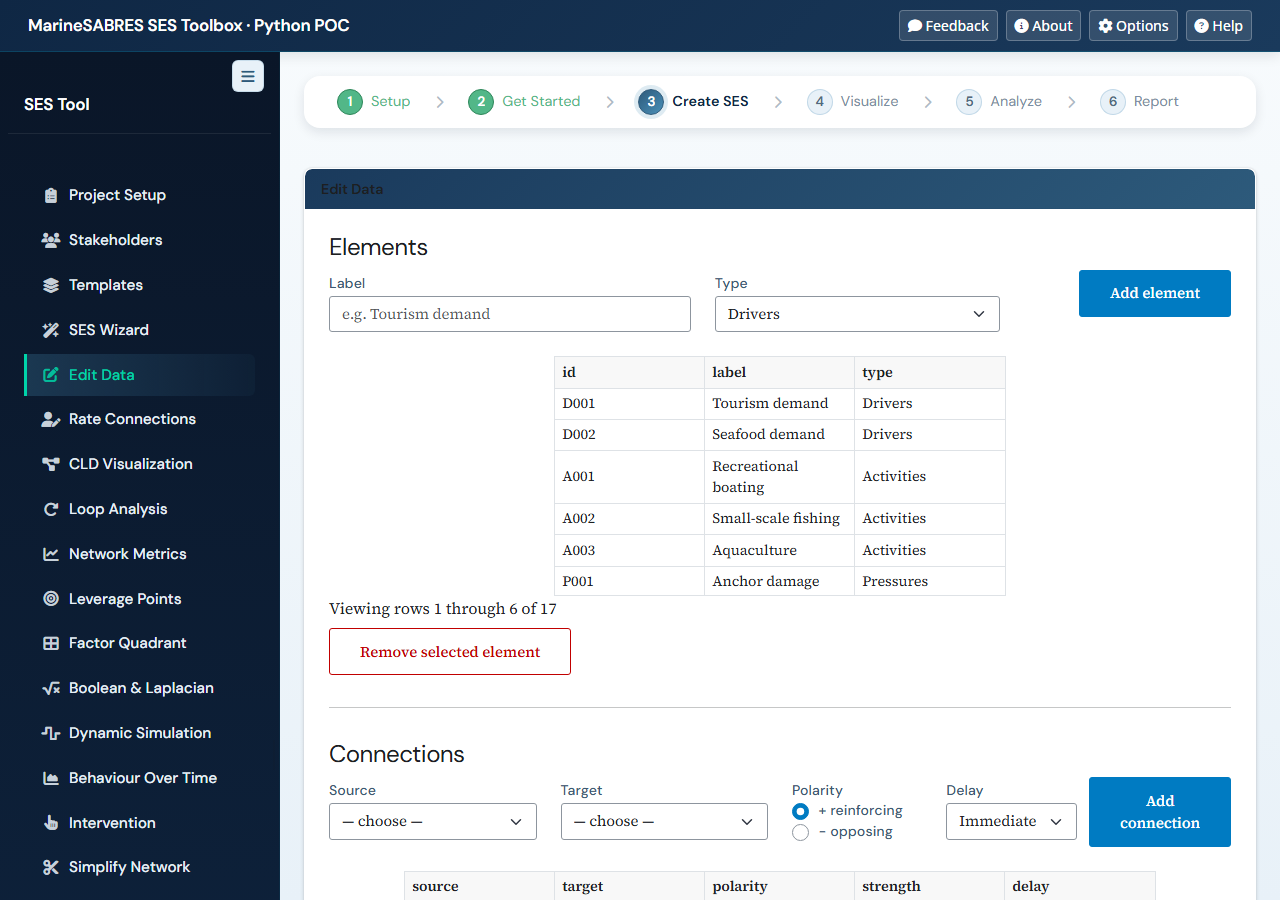
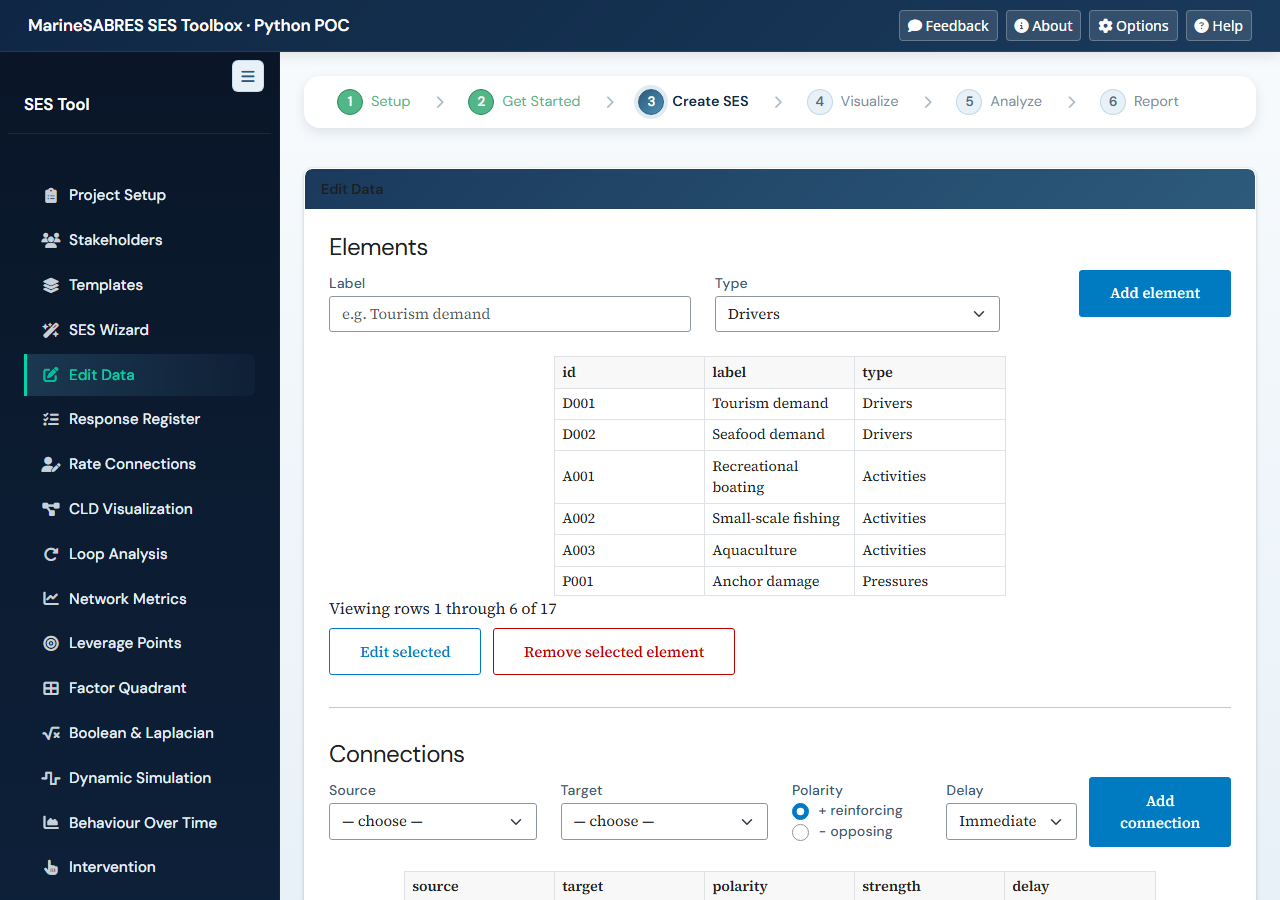
docs: P1b manual, changelog, screenshots (P1b)
MANUAL §10 Response Register in full, the §9 edit panels, §6 roles and the stakeholder counter, the §2 stepper row and the v1.33.0 template line; CHANGELOG [1.15.0]; a README module row; the screenshot script walks the 20 nav panels; four screenshots retaken (responses, entry, stakeholders, full_app).

diff --git a/tests/make_docs_screenshots.py b/tests/make_docs_screenshots.py
@@ -4,7 +4,7 @@
 Standalone Playwright script in the same style as `tests/test_*_e2e.py`: it
 drives http://127.0.0.1:<port> (start the server yourself, e.g.
 `shiny run --port 8000 app.py` with PYTHONPATH set to the repo root), walks
-the 19 nav panels in app.py NAV order, triggers the button-gated analysis
+the 20 nav panels in app.py NAV order, triggers the button-gated analysis
 blocks so their results are visible, and writes `<out>/<nav value>.png` for
 each panel plus a handful of extras (metrics_cascade, simulation_montecarlo,
 about_overview, about_manual, full_app).
@@ -40,6 +40,7 @@ NAV_ORDER = [
     ("templates",    ("text",  "#templates-templates_list")),
     ("wizard",       ("sel",   "#wizard-wizard_start")),
     ("entry",        ("sel",   "#entry-elements_table table tbody tr")),
+    ("responses",    ("sel",   "#responses-measures_table")),
     ("rate",         ("sel",   "#rate-connections_table table tbody tr")),
     ("cld",          ("pyvis", "cld-network")),
     ("loops",        ("sel",   "#loops-detect")),
@@ -388,7 +389,7 @@ class Shooter:
         await page.goto(f"http://127.0.0.1:{port}", wait_until="networkidle")
         # Cold-server warm-up: the nav is server-rendered
         await page.wait_for_function(
-            "() => document.querySelectorAll('.sespy-nav-btn').length >= 19", timeout=60000)
+            "() => document.querySelectorAll('.sespy-nav-btn').length >= 20", timeout=60000)
         await page.wait_for_timeout(1500)
         # Toasts (the autosave "Recovered work" prompt fires a moment after
         # load; others arrive from gated runs) must not land in a doc shot.

diff --git a/docs/MANUAL.md b/docs/MANUAL.md
@@ -48,7 +48,7 @@ Across the top of the page is a six-step **workflow stepper**. It is a guide, no
 |---|---|---|
 | Setup | Project Setup | Project Setup, Stakeholders |
 | Get Started | Recent Projects | Recent Projects |
-| Create SES | Templates | Templates, SES Wizard, Edit Data, Rate Connections, Import Data |
+| Create SES | Templates | Templates, SES Wizard, Edit Data, Response Register, Rate Connections, Import Data |
 | Visualize | CLD Visualization | CLD Visualization |
 | Analyze | Loop Analysis | Loop Analysis, Network Metrics, Leverage Points, Factor Quadrant, Boolean & Laplacian, Dynamic Simulation, Behaviour Over Time, Intervention, Simplify Network |
 | Report | Export Report | Export Report |
@@ -111,13 +111,13 @@ Each section below names the panel as it appears in the navigation, then covers 
 
 **Purpose.** A stakeholder register with a power × interest grid, engagement and communication planning, summary analytics and exports (section 43).
 
-**Controls.** Five tabs. **Register**: "Add / edit stakeholder" with Name, Type, Sector, Contact, Interests, Role, Power (High/Medium/Low), Interest (High/Medium/Low), Attitude and Engagement level; "Save stakeholder" and "Cancel"; "Edit selected" and "Remove selected" act on the highlighted row of the register table. **Power-Interest Grid** has no controls. **Engagement Planning**: Stakeholder, Engagement method, date, objectives, outcomes, Status, Facilitator, "Add activity". **Communication Plan**: Target audience, Communication type, date, Frequency, key message, responsible person, "Add communication". **Analysis** carries the export buttons: "Download full report (Excel)", "Download Power-Interest grid (PNG)", "Download summary (PDF)".
+**Controls.** Five tabs. **Register**: "Add / edit stakeholder" with Name, Type, Sector, Contact, Interests, Role, Power (High/Medium/Low), Interest (High/Medium/Low), Attitude, Engagement level and "Roles (D5.4 actor typology)" (any of Inputters, Extractors, Regulators, Affectees, Beneficiaries and Influencers); "Save stakeholder" and "Cancel"; "Edit selected" and "Remove selected" act on the highlighted row of the register table. **Power-Interest Grid** has no controls. **Engagement Planning**: Stakeholder, Engagement method, date, objectives, outcomes, Status, Facilitator, "Add activity". **Communication Plan**: Target audience, Communication type, date, Frequency, key message, responsible person, "Add communication". **Analysis** carries the export buttons: "Download full report (Excel)", "Download Power-Interest grid (PNG)", "Download summary (PDF)".
 
-**Outputs.** The register table. The grid plots every stakeholder with both power and interest set into four quadrants captioned Key players, Keep satisfied, Keep informed and Monitor, followed by a "Grid summary" listing each quadrant's strategy and members and naming anyone not plotted for lack of scores. The engagement and communication logs. The analysis tab shows counts, an engagement-coverage bar and stakeholders by type and sector.
+**Outputs.** The register table, whose Roles column lists each stakeholder's roles. The grid plots every stakeholder with both power and interest set into four quadrants captioned Key players, Keep satisfied, Keep informed and Monitor, followed by a "Grid summary" listing each quadrant's strategy and members and naming anyone not plotted for lack of scores. The engagement and communication logs. The analysis tab shows counts, an engagement-coverage bar and stakeholders by type and sector.
 
 **Reading it.** Key players (high power, high interest) are managed closely; keep satisfied means high power and lower interest; keep informed means lower power and high interest; monitor is the rest.
 
-**Caveats.** Name and Type are required. Stakeholders are also the rater list for Rate Connections (section 11), so register them before rating. The stakeholder register is saved with the project but is not part of the report export.
+**Caveats.** Name and Type are required. IDs (SH001, SH002, …) are never reused: the next one comes from a counter saved with the project, so a removed stakeholder's ID stays retired. Stakeholders are also the rater list for Rate Connections (section 11), so register them before rating. The stakeholder register is saved with the project but is not part of the report export.
 
 ## 7. Templates
 
@@ -127,7 +127,7 @@ Each section below names the panel as it appears in the navigation, then covers 
 
 **Controls.** 11 templates in two groups: "MarineSABRES templates" (the 7 curated templates of the R MarineSABRES SES Toolbox) and "SESPy examples" (SESPy's own 4). One card per template with its name, size and description, and a "Load" button. A MarineSABRES card also shows badges for its category, its complexity ("Simple" or "Complex"), its template version and its regional sea, and a collapsed "About this template" section with the template's source and usage notes. A SESPy example shows its demonstration area instead. Loading replaces the current project, so save first if you want to keep your work; the panel says so at the top.
 
-**Shipped templates: MarineSABRES.** R's template names with " (MarineSABRES)" appended, so they never clash with SESPy's examples: Caribbean Island - Comprehensive SES Template (78 elements, 140 connections, Caribbean Sea, complex), Climate Change (25 and 28, Arctic Ocean), Coastal Lagoon (28 and 30, Baltic Sea), Fisheries (26 and 33, Baltic Sea), Offshore Wind Energy (23 and 27, North Sea, complex), Pollution (28 and 29, Baltic Sea), Tourism (26 and 33, Mediterranean Sea). "Coastal Lagoon (MarineSABRES)" is R's aquaculture template: R names it "Coastal Lagoon", and SESPy keeps R's name. The templates are converted from R release v1.31.0: R's Measures appear as Responses, every link keeps its sign, strength and description, and its confidence (kept within SESPy's 1–5 scale); R records no delays, so every link starts as "immediate". The Caribbean template is large; analyses with a node limit (Boolean allows at most 12 nodes) say so instead of running.
+**Shipped templates: MarineSABRES.** R's template names with " (MarineSABRES)" appended, so they never clash with SESPy's examples: Caribbean Island - Comprehensive SES Template (78 elements, 140 connections, Caribbean Sea, complex), Climate Change (25 and 28, Arctic Ocean), Coastal Lagoon (28 and 30, Baltic Sea), Fisheries (26 and 33, Baltic Sea), Offshore Wind Energy (23 and 27, North Sea, complex), Pollution (28 and 29, Baltic Sea), Tourism (26 and 33, Mediterranean Sea). "Coastal Lagoon (MarineSABRES)" is R's aquaculture template: R names it "Coastal Lagoon", and SESPy keeps R's name. The templates are converted from R release v1.33.0: R's Measures appear as Responses, every link keeps its sign, strength and description, and its confidence (kept within SESPy's 1–5 scale); R records no delays, so every link starts as "immediate". The Caribbean template is large; analyses with a node limit (Boolean allows at most 12 nodes) say so instead of running.
 
 **Shipped templates: SESPy examples.** Coastal Tourism SES (17 elements, 20 connections, Tuscan Archipelago), Minimal Demo (5 and 6, a positive three-cycle plus a mutually activating pair, useful for learning the analyses), Offshore Wind Farm SES (19 and 21, Macaronesia), Small-scale Coastal Fisheries SES (18 and 22, Arctic Northeast Atlantic).
 
@@ -151,7 +151,7 @@ Each section below names the panel as it appears in the navigation, then covers 
 
 **Purpose.** Edit the element and connection lists by hand. Every change is visible at once in every other panel.
 
-**Controls.** Under "Elements": "Label", "Type" (the seven DAPSI(W)R(M) types), "Add element", "Remove selected element". Under "Connections": "Source" and "Target" (both start on "— choose —"), "Polarity" (+ reinforcing or − opposing), "Delay" (Immediate, Short, Long), "Add connection", "Remove selected connection". Rows are selected by clicking them in the tables.
+**Controls.** Under "Elements": "Label", "Type" (the seven DAPSI(W)R(M) types), "Add element", "Remove selected element". Under "Connections": "Source" and "Target" (both start on "— choose —"), "Polarity" (+ reinforcing or − opposing), "Delay" (Immediate, Short, Long), "Add connection", "Remove selected connection". Rows are selected by clicking them in the tables. Under each table, "Edit selected" opens an edit panel for the selected row. An element's panel has Label and Description and, except for a Responses element, its indicator fields: Indicator, Unit, Data source and Policy target (one of five policy targets, or your own text), plus the read-only registry id and version of an element taken from the indicator registry. A connection's panel has its Description. "Save changes" writes the panel and "Cancel" closes it.
 
 **Outputs.** The elements table (id, label, type), the connections table (source, target, polarity, strength, delay) and a status line with the counts and a reminder to use Save Project to write to disk.
 
@@ -159,11 +159,21 @@ Each section below names the panel as it appears in the navigation, then covers 
 
 **Link rules.** SESPy follows the DAPSI(W)R(M) framework rules used by the R toolbox. When both a source and a target are chosen, "Polarity" is pre-filled with the rule's default for that pair of types: for example Pressures → Marine Processes & Functioning is "−", and Responses → Drivers, Activities or Pressures is "−". You can change it before adding the link; choosing a different source or target pre-fills it again. If the pair is not a standard DAPSI(W)R(M) link (for example Drivers → Goods & Benefits), a yellow note says so. The link can still be added. Elements without a type are never flagged.
 
-**Caveats.** This panel has no strength or confidence inputs. A new connection gets medium strength and confidence 3; those change only through Rate Connections or an import. Source and target must differ, and duplicate connections are refused.
+**Caveats.** This panel has no strength or confidence inputs. A new connection gets medium strength and confidence 3; those change only through Rate Connections or an import. Source and target must differ, and duplicate connections are refused. Deleting an element that a response measure refers to keeps the reference and warns, naming the measures (section 10). Save on an edit panel writes nothing, and says why, when the record changed since you opened it.
 
 ## 10. Response Register
 
-The Response Register keeps the measures a case study proposes to address its problems, their expected impacts, a prioritisation and an implementation plan, following the MarineSABRES R app's register.
+![Response Register](docs/screenshots/responses.png)
+
+**Purpose.** Keep the measures a case study proposes against its problems: what each measure is and targets, how effective and feasible it is expected to be, which problems it addresses, how the measures rank and when they are to be implemented. It ports the Response Register of the MarineSABRES R app and keeps the same data.
+
+**Controls.** Four tabs. **Response Register**: "Add Response Measure" with Response Name and Response Type (both required), Targets, Implementation Status (starts on Proposed), Description, Mechanism of Action, Target Element ID (elements of this project; IDs not in the project are kept), Expected Effectiveness, Feasibility, Estimated Cost (1–10, default 5), Responsible Stakeholders and Implementation Barriers. A collapsible "EBM classification and governance" section adds Instrument or measure, EBM type (its choices follow the first, and choosing a management-measure type suggests Targets), Governance level, Competent authority, Legal basis, Paired with (management strategy), Implementing stakeholders (from the register in section 6), PESTLE elements addressed and the eleven EBM tenet ratings. "Save measure" adds the measure or saves an edit; "Cancel" leaves the edit. Under the table, "Edit selected" fills the form from one selected measure and "Delete Selected" removes every selected one. **Impact Assessment**: link a measure to a problem with Select Response, Addresses Problem, Problem Element ID, Impact Strength and Timeframe, then "Add Impact Link"; "Delete Selected" removes links. **Prioritization**: the effectiveness, feasibility and cost weights (0.4, 0.3 and 0.3, each 0–1). **Implementation Plan**: a milestone for a measure with Response Measure, Milestone, Target Date (a year from today), Status and Notes, then "Add Milestone"; "Delete Selected" removes milestones; "Download Response Data (Excel)" exports the register.
+
+**Outputs.** The register table (ID, name, type, target, kind, EBM code, governance level, PESTLE, competent authority, legal basis, effectiveness, feasibility, cost, status, date added). The impact matrix. The ranked table and the effectiveness-versus-feasibility matrix. The implementation timeline. The Excel workbook has the R app's three sheets: Response_Measures (all 34 columns), Impact_Matrix and Implementation.
+
+**Reading it.** A measure's priority score is the R app's weighted sum: effectiveness weight × effectiveness / 3 + feasibility weight × feasibility / 3 + cost weight × (11 − cost) / 10, where High counts 3, Medium 2, Low 1 and anything else 0. A measure without a cost has no score and ranks last. The matrix plots every measure rated High, Medium or Low on both effectiveness and feasibility: top right is high priority, top left effective but difficult, bottom right easy but of limited impact, bottom left low priority.
+
+**Caveats.** IDs run RM001, RM002, … and are never reused: the next one comes from a counter saved with the project. Deleting a measure keeps its impact links and milestones, as the R app does, and the message says how many rows still refer to the deleted measures. Deleting an element on Edit Data (section 9) leaves the register alone too, and warns, naming the measures that still refer to it. Edit keeps every stored value, including values the form does not offer (they appear as extra choices), and filling the form for an edit does not trigger the EBM-type rules. If the record changed under an open edit, for example after a project load or a MosaicSES compartment switch, Save writes nothing and says why. Values are stored as codes and shown in the session language; a tenet rating's source, set by a workshop, is shown read-only.
 
 ## 11. Rate Connections
 

diff --git a/CHANGELOG.md b/CHANGELOG.md
@@ -4,6 +4,44 @@ All notable changes to SESPy.
 
 ## [Unreleased]
 
+## [1.15.0] — 2026-10-23
+
+Roadmap P1b (response register, indicator fields and stakeholder roles;
+R-parity roadmap §2 P1b). Ports R MarineSABRES 1.19.0, 1.23.0 (WS-3a), 1.24.0
+(WS-4), 1.29.0, 1.30.0 (WS-9a) and 1.32.0 (`TenetSource`), against R v1.33.0
+(`4017feb`).
+
+### Added
+- **Response Register page** (after Edit Data): R's register of response
+  measures in four tabs. Register: add, edit and delete measures with R's
+  fields, including the EBM classification and governance section and the
+  eleven EBM tenets. Impact Assessment: link measures to the problems they
+  address. Prioritization: R's weighted score, the ranked table and the
+  effectiveness-versus-feasibility matrix. Implementation Plan: milestones,
+  and an Excel export with R's three sheets.
+- **Edit panels on Edit Data.** An element (except a Response) gets
+  Indicator, Unit, Data source and Policy target, and shows its registry id
+  and version; a connection gets its description.
+- **Stakeholder roles** (D5.4 actor typology) on the Stakeholders page, with
+  a Roles column. The Excel export carries `ne_roles` and `source_id`.
+
+### Changed
+- **Project schema 8.** Projects carry the register, the indicator fields,
+  stakeholder roles and the stakeholder counter. An older SESPy refuses to
+  overwrite a v1.15 file, and says which version it needs, instead of saving
+  it without the new data.
+- The Excel import's Indicator column now fills the Indicator field, not the
+  description.
+- Stakeholder IDs follow R's persisted counter, so a deleted stakeholder's ID
+  is not handed out again.
+- Projects saved from the Caribbean template get their indicators in the new
+  field when loaded.
+
+### Deferred
+- The indicator registry picker and "Load DA actor list" (P4), the Word
+  exports (P6c/P14), the WS-10 workshop (proposed P15) and
+  `r_min_app_version` (P1c).
+
 ## [1.14.2] — 2026-10-20
 
 ### Fixed

diff --git a/README.md b/README.md
@@ -337,6 +337,7 @@ review → TDD → review → full-e2e cycle. All 9 UI languages stay in sync.
 |---|---|---|
 | **PIMS Project Setup** (`sespy/modules/pims_project.py`) | `modules/pims_module.R` (PROJECT SETUP) | Two-column form for project context: name, demonstration area, focal issue, definition statement, temporal/spatial scale, system in focus. Persists to project metadata via a parallel `project_metadata` reactive. |
 | **PIMS Stakeholders** (`sespy/modules/pims_stakeholders.py`) | `modules/pims_module.R` (STAKEHOLDERS) | Stakeholder register — name, organisation, role, interest/influence — feeding the multi-rater panel in Rate Connections. |
+| **Response Register** (`sespy/modules/response_register.py`) | `modules/response_module.R` | R's register of response measures (R's columns and codes), impact links, the weighted prioritisation and its matrix, implementation milestones and the three-sheet Excel export. |
 | **Templates** (`sespy/modules/templates.py`) | `modules/template_ses_module.R` | Picker for built-in starter projects in two groups: R's 7 curated MarineSABRES templates (badges for category, complexity, version, regional sea) and SESPy's 4 examples (Offshore Wind, Coastal Tourism, Small-scale Fisheries, Minimal Demo). |
 | **SES Wizard** (`sespy/modules/ai_isa_wizard.py`) | `modules/ai_isa_assistant_module.R` (and `ai_isa/`) | 12-step DAPSI(W)R(M) wizard with confirmation modal, live writes per step, and a stub `suggest_connections()` ready for SP3/SP4 scoring backends. |
 | **Edit Data** (`sespy/modules/isa_data_entry.py`) | `modules/isa_data_entry_module.R` | Add/remove elements & connections live; auto-IDs by DAPSIWRM type; cascading delete keeps the data validator-clean. |
